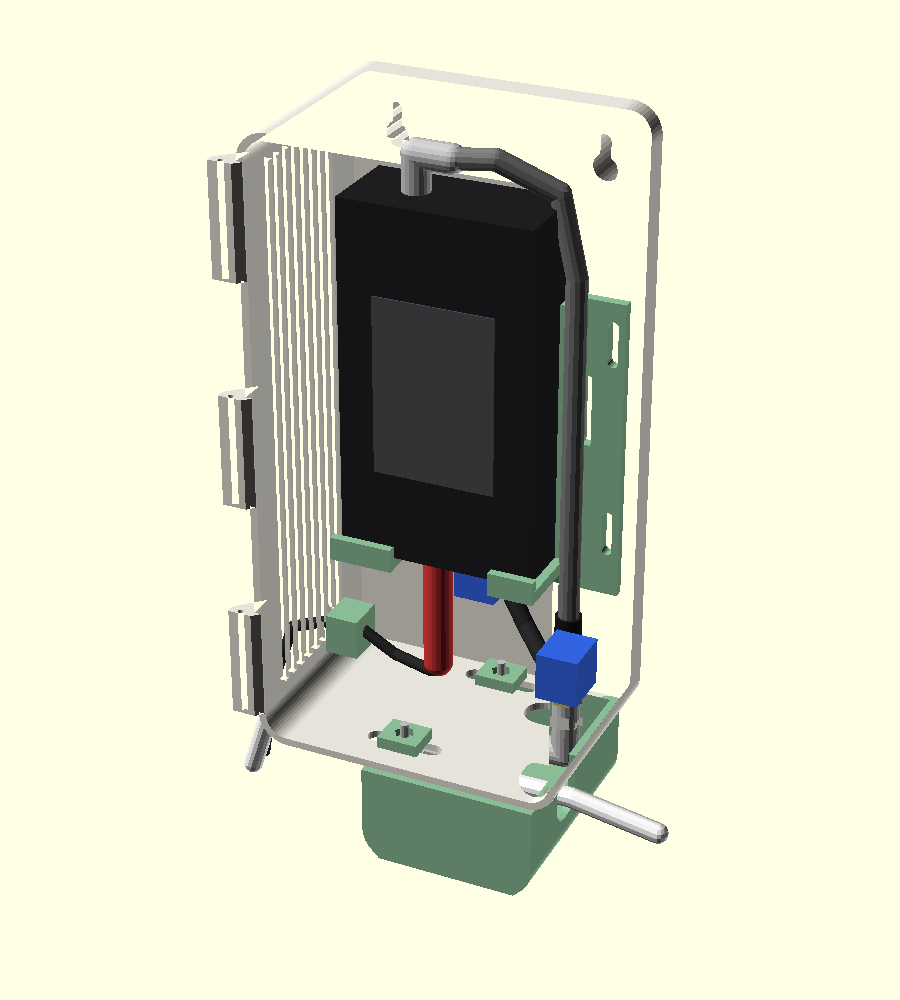
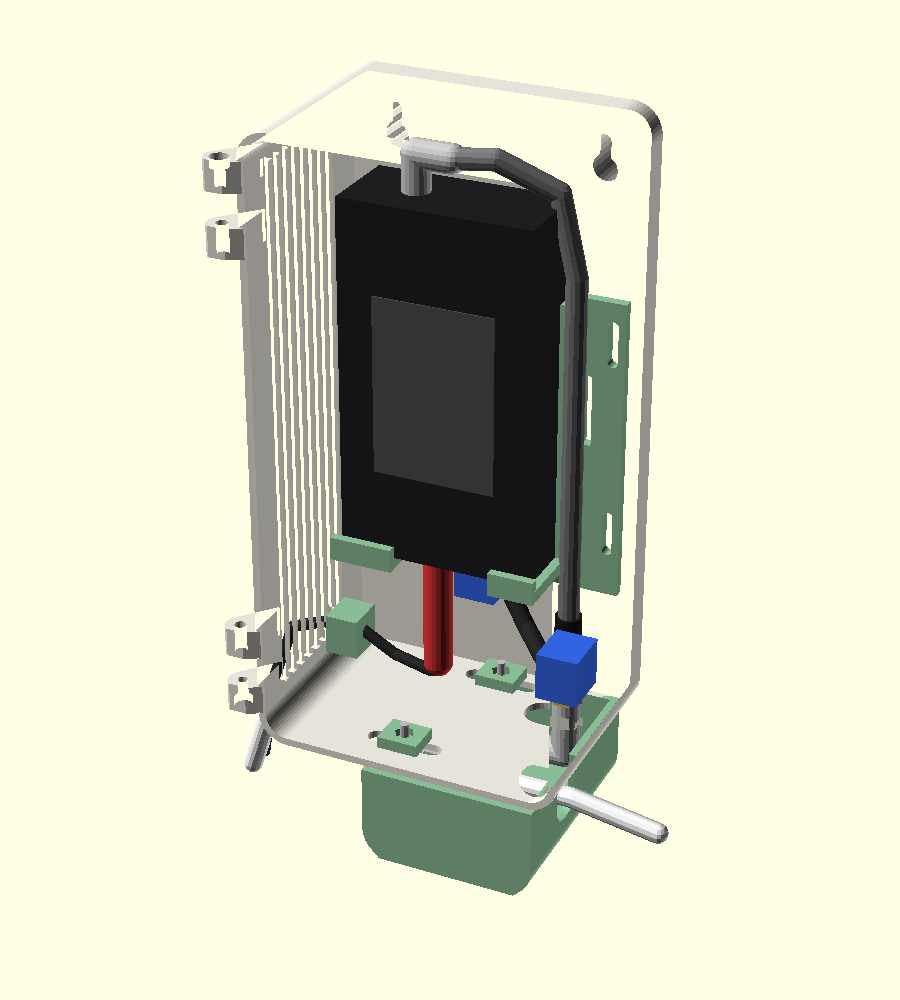
MoCA box: louvre lid, 6x1.6 magnets, M3 screw/insert hinge sets

Changed region(s): [[0.2178, 0.124, 0.28, 0.31], [0.2489, 0.589, 0.3111, 0.713], [0.2178, 0.372, 0.3111, 0.527]]

diff --git a/work/wall-box-wizard/Scope.md b/work/wall-box-wizard/Scope.md
@@ -54,13 +54,13 @@ Idea from `work/notes/2026-10-22-feet-floor-and-wall-box-wizard.md`: an indoor, 
   - **Power lead tidied (Brian, 2026-10-27):** the power hole moved from the box bottom (X15, where the lead hung loose) to **low on the left wall** (Y50, Z17, 13 mm, in body15.scad). Inside, the plug points straight down and the lead bends left along the floor to a strain-relief clamp at the hole; outside it runs down the left side beside the incoming coax. Lead bend radius UNKNOWN.
   - **ScreenBeam cradle (Brian, 2026-10-27: "go with cradle", with vertical adjustment):** printable back plate on **four back-wall bosses** (8 mm, M3 heat-set inserts; body15.scad `standoffs`) through **vertical slots, ±6 mm**, all outside the ScreenBeam so they can be reached with it in place. Two shelf pads with front lips carry the ScreenBeam (gap between them for the power and Ethernet plugs), side lips (right one 2 mm, the jumper runs beside it), and two strap slots for a ~20 mm Velcro strap across the front that also holds the jumper. The ScreenBeam moved 6 mm towards the lid to make room for the bosses. Fit, insert length and strap width UNKNOWN.
   - **Print-friendlier (Brian, 2026-10-27):** porch: the r10 rounds meet the bed in a 45° flat (no curl-under overhang printed floor-down). Cradle (printed back face down): plate extended 8 mm down with a 0.6 mm elephant-foot chamfer, 45° gussets under both shelf pads (also stiffer), front lips 6 -> 4 mm so their overhang is a short ledge (the strap still holds the top). Slider, nut: unchanged, already support-free.
-  - **Box: hinge lid + magnets, keep height (Brian, 2026-10-27):** height stays 210 so the ScreenBeam and its right-angle F keep the full ±6 mm cradle travel. Assembly/print-friendly lid in [body15.scad](concept15/body15.scad): `lid_style="hinge"`, five knuckles (3 body, 2 lid) along the left edge between the r10 corners, cut flush with the lid face so the lid prints face-down flat; body prints back-down (knuckle flank ~45°); pin = 1.75 mm filament in a 2.0 hole. Latch replaced by `lid_magnets=[d,t]`: a disc magnet in each right-hand corner of the body (block on a 45° corner gusset, no supports) facing one in the lid, 0.3 mm apart; pockets open towards each other, press/glue, opposite poles. Magnet size is a 6 x 3 placeholder until Brian gives his; hold force, pin fit and hinge play UNKNOWN. Renders: `box15_hinge_*.png`. Style pick still open (five styles redrawn 2026-10-27).
+  - **Box update (Brian, 2026-10-27): louvre style picked; magnets 6 mm dia x 1.6 mm; no filament hinge pin.** Hinge is now two short sets (bottom and top), each body-lid-body knuckles (r5, 10 mm long) on an M3 screw: head in a counterbore in the outer body knuckle, threads into an M3 heat-set insert in the inner body knuckle (pressed in from its free end); the lid turns on the screw shank and comes off by undoing two screws. Axis 4.1 mm behind the lid face so the bores stay inside the flat-cut knuckles; lid knuckles have a flat foot (print face-down, no overhang), body knuckle flank ~40° (print back-down). Louvre: two bands of four 3 mm slots across the lid (top and bottom), sloping up 45° inward. Screw length ~M3 x 30, hinge play/wear, insert engagement and magnet hold UNKNOWN. Renders `box15_hinge_*.png` (updated).  - **Box: hinge lid + magnets, keep height (Brian, 2026-10-27):** height stays 210 so the ScreenBeam and its right-angle F keep the full ±6 mm cradle travel. Assembly/print-friendly lid in [body15.scad](concept15/body15.scad): `lid_style="hinge"`, five knuckles (3 body, 2 lid) along the left edge between the r10 corners, cut flush with the lid face so the lid prints face-down flat; body prints back-down (knuckle flank ~45°); pin = 1.75 mm filament in a 2.0 hole. Latch replaced by `lid_magnets=[d,t]`: a disc magnet in each right-hand corner of the body (block on a 45° corner gusset, no supports) facing one in the lid, 0.3 mm apart; pockets open towards each other, press/glue, opposite poles. Magnet size is a 6 x 3 placeholder until Brian gives his; hold force, pin fit and hinge play UNKNOWN. Renders: `box15_hinge_*.png`. Style pick still open (five styles redrawn 2026-10-27).
 - **Look:** friendlier for indoor use; five style concepts shown 2026-10-22 (soft slab, louvre, picture frame, pill, two-tier); Brian has not picked one yet.
 
 ## Still open
 
 - Splitter: caliper checks of the photo estimates above, mainly the OUT port spacing and port axis height.
-- Style pick.
+- Style pick: louvre (Brian, 2026-10-27); side/top vents not yet restyled.
 
 - Default wall thickness is a parameter; generic wall guidance stays UNKNOWN.
 - ECB7250: which measurement is which (120 long x 65 wide x 30 tall assumed), port heights on the ends.

diff --git a/HANDOFF.md b/HANDOFF.md
@@ -12,7 +12,7 @@ Updated 2026-10-18 from Brian's explicit housekeeping confirmations. Read [AGENT
 - ScreenBeam jumper is Brian's braided ~220 mm right-angle F male / F female lead ([photo](work/wall-box-wizard/photos/screenbeam-jumper-2026-10-27.jpg)); an F male-male barrel joins it to the right-angle's jack above the floor (Brian, 2026-10-27). Power lead now leaves low on the left wall beside the incoming coax (power hole moved off the bottom, Brian 2026-10-27).
 - ScreenBeam cradle (Brian, 2026-10-27): `cradle15()` in c15.scad, `pick=4` in porch15.scad; vertical slots ±6 mm on four back-wall insert bosses, shelf pads + lips + Velcro strap slots.
 - Porch and cradle made support-free (2026-10-27). Porch side settled for now.
-- **Box work started (2026-10-27):** height kept (room for cradle travel). Hinge lid + magnet catch in `concept15/body15.scad` (`lid_style="hinge"`, `lid_magnets=[6,3]` placeholder), print-friendly knuckles and support-free magnet blocks; renders `box15_hinge_*.png`. Waiting on Brian: magnet size, style pick (soft slab, louvre, picture frame, pill, two-tier; the 10-22 renders were never saved, redrawn as sketches). Then move the box changes into the wall_box template.
+- **Box work started (2026-10-27):** height kept (room for cradle travel). Hinge lid + magnet catch in `concept15/body15.scad` (`lid_style="hinge"`, `lid_magnets=[6,3]` placeholder), print-friendly knuckles and support-free magnet blocks; renders `box15_hinge_*.png`. Brian then picked **louvre** (two slot bands on the lid), gave magnets **6 x 1.6 mm**, and ruled out a filament pin: hinge is now two M3 screw + heat-set insert sets (see Scope). Next: Brian reviews; then decide whether side/top vents get the louvre look, and move the box changes into the wall_box template.
 - Next (Brian, 2026-10-27): work on the MoCA box itself in a new session. Continue prompt: [docs/prompts/2026-10-27_moca-box-continue.md](docs/prompts/2026-10-27_moca-box-continue.md). Calipers on the splitter still needed; later move the concept 15 box changes into the wall_box template. Scratch renders only; nothing printed; splitter sizes are photo estimates (calipers still needed); fit, travel and adapter sizes UNKNOWN.
 
 ## 2026-10-26 MoCA wall box: flat-splitter porch concepts 12-14 (superseded by concept 15 above)
